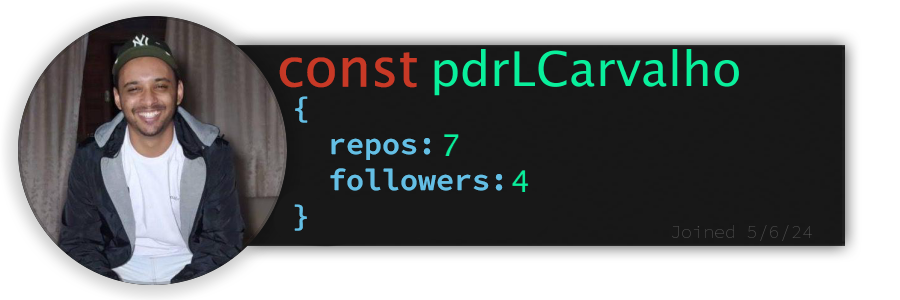
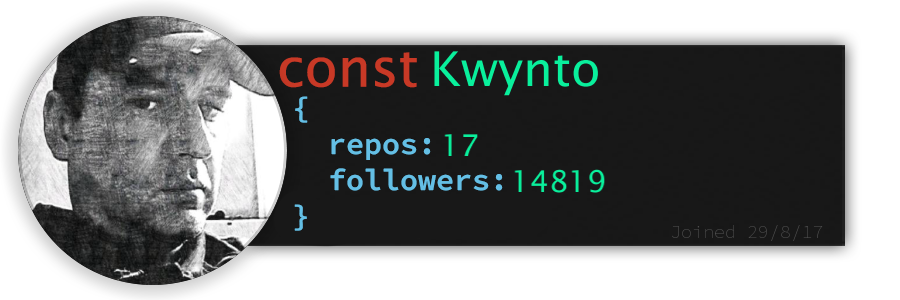
atualização readme

diff --git a/src/data.js b/src/data.js
@@ -18,7 +18,7 @@ module.exports = {
       src: 'src/resources/images/gabryel.png',
       width: 600,
     },
-    description: "Olá sou o Gabryel Costa apenas um entusiasta da programação.",
+    description: "Olá! Sou um entusiasta do desenvolvimento frontend com habilidades em HTML, CSS, JavaScript e React. Estudante de Análise e Desenvolvimento de Sistemas, busco aplicar e expandir meu conhecimento em um estágio desafiador. ",
     badges: [
       {
         type: 'badge',

diff --git a/README.md b/README.md
@@ -1,44 +1,44 @@
 <p align="center"><img src="src/resources/images/gabryel.png" width="600"/></p>
 <p align="center"><a href="https://x.com/GabryelVercoza"><img src="https://img.shields.io/badge/X-404E4D?style=for-the-badge&logoColor=F2F2F2&logo=X"/></a>
 <a href="https://www.linkedin.com/in/gabryel-costa-86620a2a8/"><img src="https://img.shields.io/badge/linkedin-404E4D?style=for-the-badge&logoColor=F2F2F2&logo=linkedin"/></a></p>
-<p align="center">Olá sou o Gabryel Costa apenas um entusiasta da programação.</p>
+<p align="center">Olá! Sou um entusiasta do desenvolvimento frontend com habilidades em HTML, CSS, JavaScript e React. Estudante de Análise e Desenvolvimento de Sistemas, busco aplicar e expandir meu conhecimento em um estágio desafiador. </p>
 
 ## **About me:**
 
 * Gabryel Costa, 30 years
 * Full Stack programmer
 * Currently studying React, Ruby and Javascript
-* 1 Year, 5 Months and 16 Days since I started programming
+* 1 Year, 5 Months and 20 Days since I started programming
 
 ## **Skills wall:**
 
-<p align="left"><img src="https://img.shields.io/badge/sqlite-616D6C?logo=sqlite&style=for-the-badge&logoColor=F2F2F2"/>
-<img src="https://img.shields.io/badge/ruby-404E4D?logo=ruby&style=for-the-badge&logoColor=F2F2F2"/>
+<p align="left"><img src="https://img.shields.io/badge/markdown-404E4D?logo=markdown&style=for-the-badge&logoColor=F2F2F2"/>
 <img src="https://img.shields.io/badge/api%20rest-404E4D?logo=api%20rest&style=for-the-badge&logoColor=F2F2F2"/>
-<img src="https://img.shields.io/badge/javascript-5BBDE7?logo=javascript&style=for-the-badge&logoColor=F2F2F2"/>
-<img src="https://img.shields.io/badge/figma-404E4D?logo=figma&style=for-the-badge&logoColor=F2F2F2"/>
-<img src="https://img.shields.io/badge/html5-5BBDE7?logo=html5&style=for-the-badge&logoColor=F2F2F2"/>
-<img src="https://img.shields.io/badge/express.js-404E4D?logo=express&style=for-the-badge&logoColor=F2F2F2"/>
-<img src="https://img.shields.io/badge/docker-5BBDE7?logo=docker&style=for-the-badge&logoColor=F2F2F2"/>
-<img src="https://img.shields.io/badge/mysql-5BBDE7?logo=mysql&style=for-the-badge&logoColor=F2F2F2"/>
-<img src="https://img.shields.io/badge/python-404E4D?logo=python&style=for-the-badge&logoColor=F2F2F2"/>
-<img src="https://img.shields.io/badge/node.js-5BBDE7?logo=node.js&style=for-the-badge&logoColor=F2F2F2"/>
-<img src="https://img.shields.io/badge/github-5BBDE7?logo=github&style=for-the-badge&logoColor=F2F2F2"/>
+<img src="https://img.shields.io/badge/sqlite-404E4D?logo=sqlite&style=for-the-badge&logoColor=F2F2F2"/>
 <img src="https://img.shields.io/badge/git-5BBDE7?logo=git&style=for-the-badge&logoColor=F2F2F2"/>
-<img src="https://img.shields.io/badge/styled%20components-616D6C?logo=styled%20components&style=for-the-badge&logoColor=F2F2F2"/>
-<img src="https://img.shields.io/badge/markdown-616D6C?logo=markdown&style=for-the-badge&logoColor=F2F2F2"/>
+<img src="https://img.shields.io/badge/html5-5BBDE7?logo=html5&style=for-the-badge&logoColor=F2F2F2"/>
+<img src="https://img.shields.io/badge/mysql-5BBDE7?logo=mysql&style=for-the-badge&logoColor=F2F2F2"/>
+<img src="https://img.shields.io/badge/python-616D6C?logo=python&style=for-the-badge&logoColor=F2F2F2"/>
+<img src="https://img.shields.io/badge/node.js-5BBDE7?logo=node.js&style=for-the-badge&logoColor=F2F2F2"/>
+<img src="https://img.shields.io/badge/photoshop-404E4D?logo=adobe-photoshop&style=for-the-badge&logoColor=F2F2F2"/>
+<img src="https://img.shields.io/badge/express.js-616D6C?logo=express&style=for-the-badge&logoColor=F2F2F2"/>
+<img src="https://img.shields.io/badge/docker-5BBDE7?logo=docker&style=for-the-badge&logoColor=F2F2F2"/>
+<img src="https://img.shields.io/badge/javascript-5BBDE7?logo=javascript&style=for-the-badge&logoColor=F2F2F2"/>
+<img src="https://img.shields.io/badge/figma-616D6C?logo=figma&style=for-the-badge&logoColor=F2F2F2"/>
+<img src="https://img.shields.io/badge/styled%20components-404E4D?logo=styled%20components&style=for-the-badge&logoColor=F2F2F2"/>
+<img src="https://img.shields.io/badge/github-5BBDE7?logo=github&style=for-the-badge&logoColor=F2F2F2"/>
+<img src="https://img.shields.io/badge/css3-5BBDE7?logo=css3&style=for-the-badge&logoColor=F2F2F2"/>
 <img src="https://img.shields.io/badge/react-5BBDE7?logo=react&style=for-the-badge&logoColor=F2F2F2"/>
 <img src="https://img.shields.io/badge/visual%20studio%20code-616D6C?logo=visual%20studio%20code&style=for-the-badge&logoColor=F2F2F2"/>
-<img src="https://img.shields.io/badge/css3-5BBDE7?logo=css3&style=for-the-badge&logoColor=F2F2F2"/>
-<img src="https://img.shields.io/badge/photoshop-616D6C?logo=adobe-photoshop&style=for-the-badge&logoColor=F2F2F2"/></p>
+<img src="https://img.shields.io/badge/ruby-404E4D?logo=ruby&style=for-the-badge&logoColor=F2F2F2"/></p>
 
 ## **Recent projects:**
 
+<a href="https://github.com/gabryelcosta/desafio-ada-santander-calculadora"><img src="https://github-readme-stats.vercel.app/api/pin/?username=gabryelcosta&repo=desafio-ada-santander-calculadora&title_color=5BBDE7&text_color=F2F2F2&bg_color=616D6C&border_color=121111&icon_color=F2F2F2&border_radius=20" height="100"/></a>
+<a href="https://github.com/gabryelcosta/gabryelcosta"><img src="https://github-readme-stats.vercel.app/api/pin/?username=gabryelcosta&repo=gabryelcosta&title_color=5BBDE7&text_color=F2F2F2&bg_color=616D6C&border_color=121111&icon_color=F2F2F2&border_radius=20" height="100"/></a>
 <a href="https://github.com/gabryelcosta/estudosts"><img src="https://github-readme-stats.vercel.app/api/pin/?username=gabryelcosta&repo=estudosts&title_color=5BBDE7&text_color=F2F2F2&bg_color=616D6C&border_color=121111&icon_color=F2F2F2&border_radius=20" height="100"/></a>
 <a href="https://github.com/gabryelcosta/modulo2-projeto-final-santander-coders"><img src="https://github-readme-stats.vercel.app/api/pin/?username=gabryelcosta&repo=modulo2-projeto-final-santander-coders&title_color=5BBDE7&text_color=F2F2F2&bg_color=616D6C&border_color=121111&icon_color=F2F2F2&border_radius=20" height="100"/></a>
-<a href="https://github.com/gabryelcosta/gabryelcosta"><img src="https://github-readme-stats.vercel.app/api/pin/?username=gabryelcosta&repo=gabryelcosta&title_color=5BBDE7&text_color=F2F2F2&bg_color=616D6C&border_color=121111&icon_color=F2F2F2&border_radius=20" height="100"/></a>
 <a href="https://github.com/gabryelcosta/Santander-Coders-2024-landing-page"><img src="https://github-readme-stats.vercel.app/api/pin/?username=gabryelcosta&repo=Santander-Coders-2024-landing-page&title_color=5BBDE7&text_color=F2F2F2&bg_color=616D6C&border_color=121111&icon_color=F2F2F2&border_radius=20" height="100"/></a>
-<a href="https://github.com/gabryelcosta/foodexplorer_api"><img src="https://github-readme-stats.vercel.app/api/pin/?username=gabryelcosta&repo=foodexplorer_api&title_color=5BBDE7&text_color=F2F2F2&bg_color=616D6C&border_color=121111&icon_color=F2F2F2&border_radius=20" height="100"/></a>
 
 ## **You can find me on:**
 
@@ -53,7 +53,7 @@
 
 *Showcases a random GitHub follower here everyday*
 
-<a href="https://github.com/pdrLCarvalho" alt="Pedro Carvalho"><img style="height:150px;" src="./src/resources/images/randomFollower.png" alt="Follower of the day"/></a>
+<a href="https://github.com/Kwynto" alt="Constantine Zavezeon"><img style="height:150px;" src="./src/resources/images/randomFollower.png" alt="Follower of the day"/></a>
 
 <hr>
 
